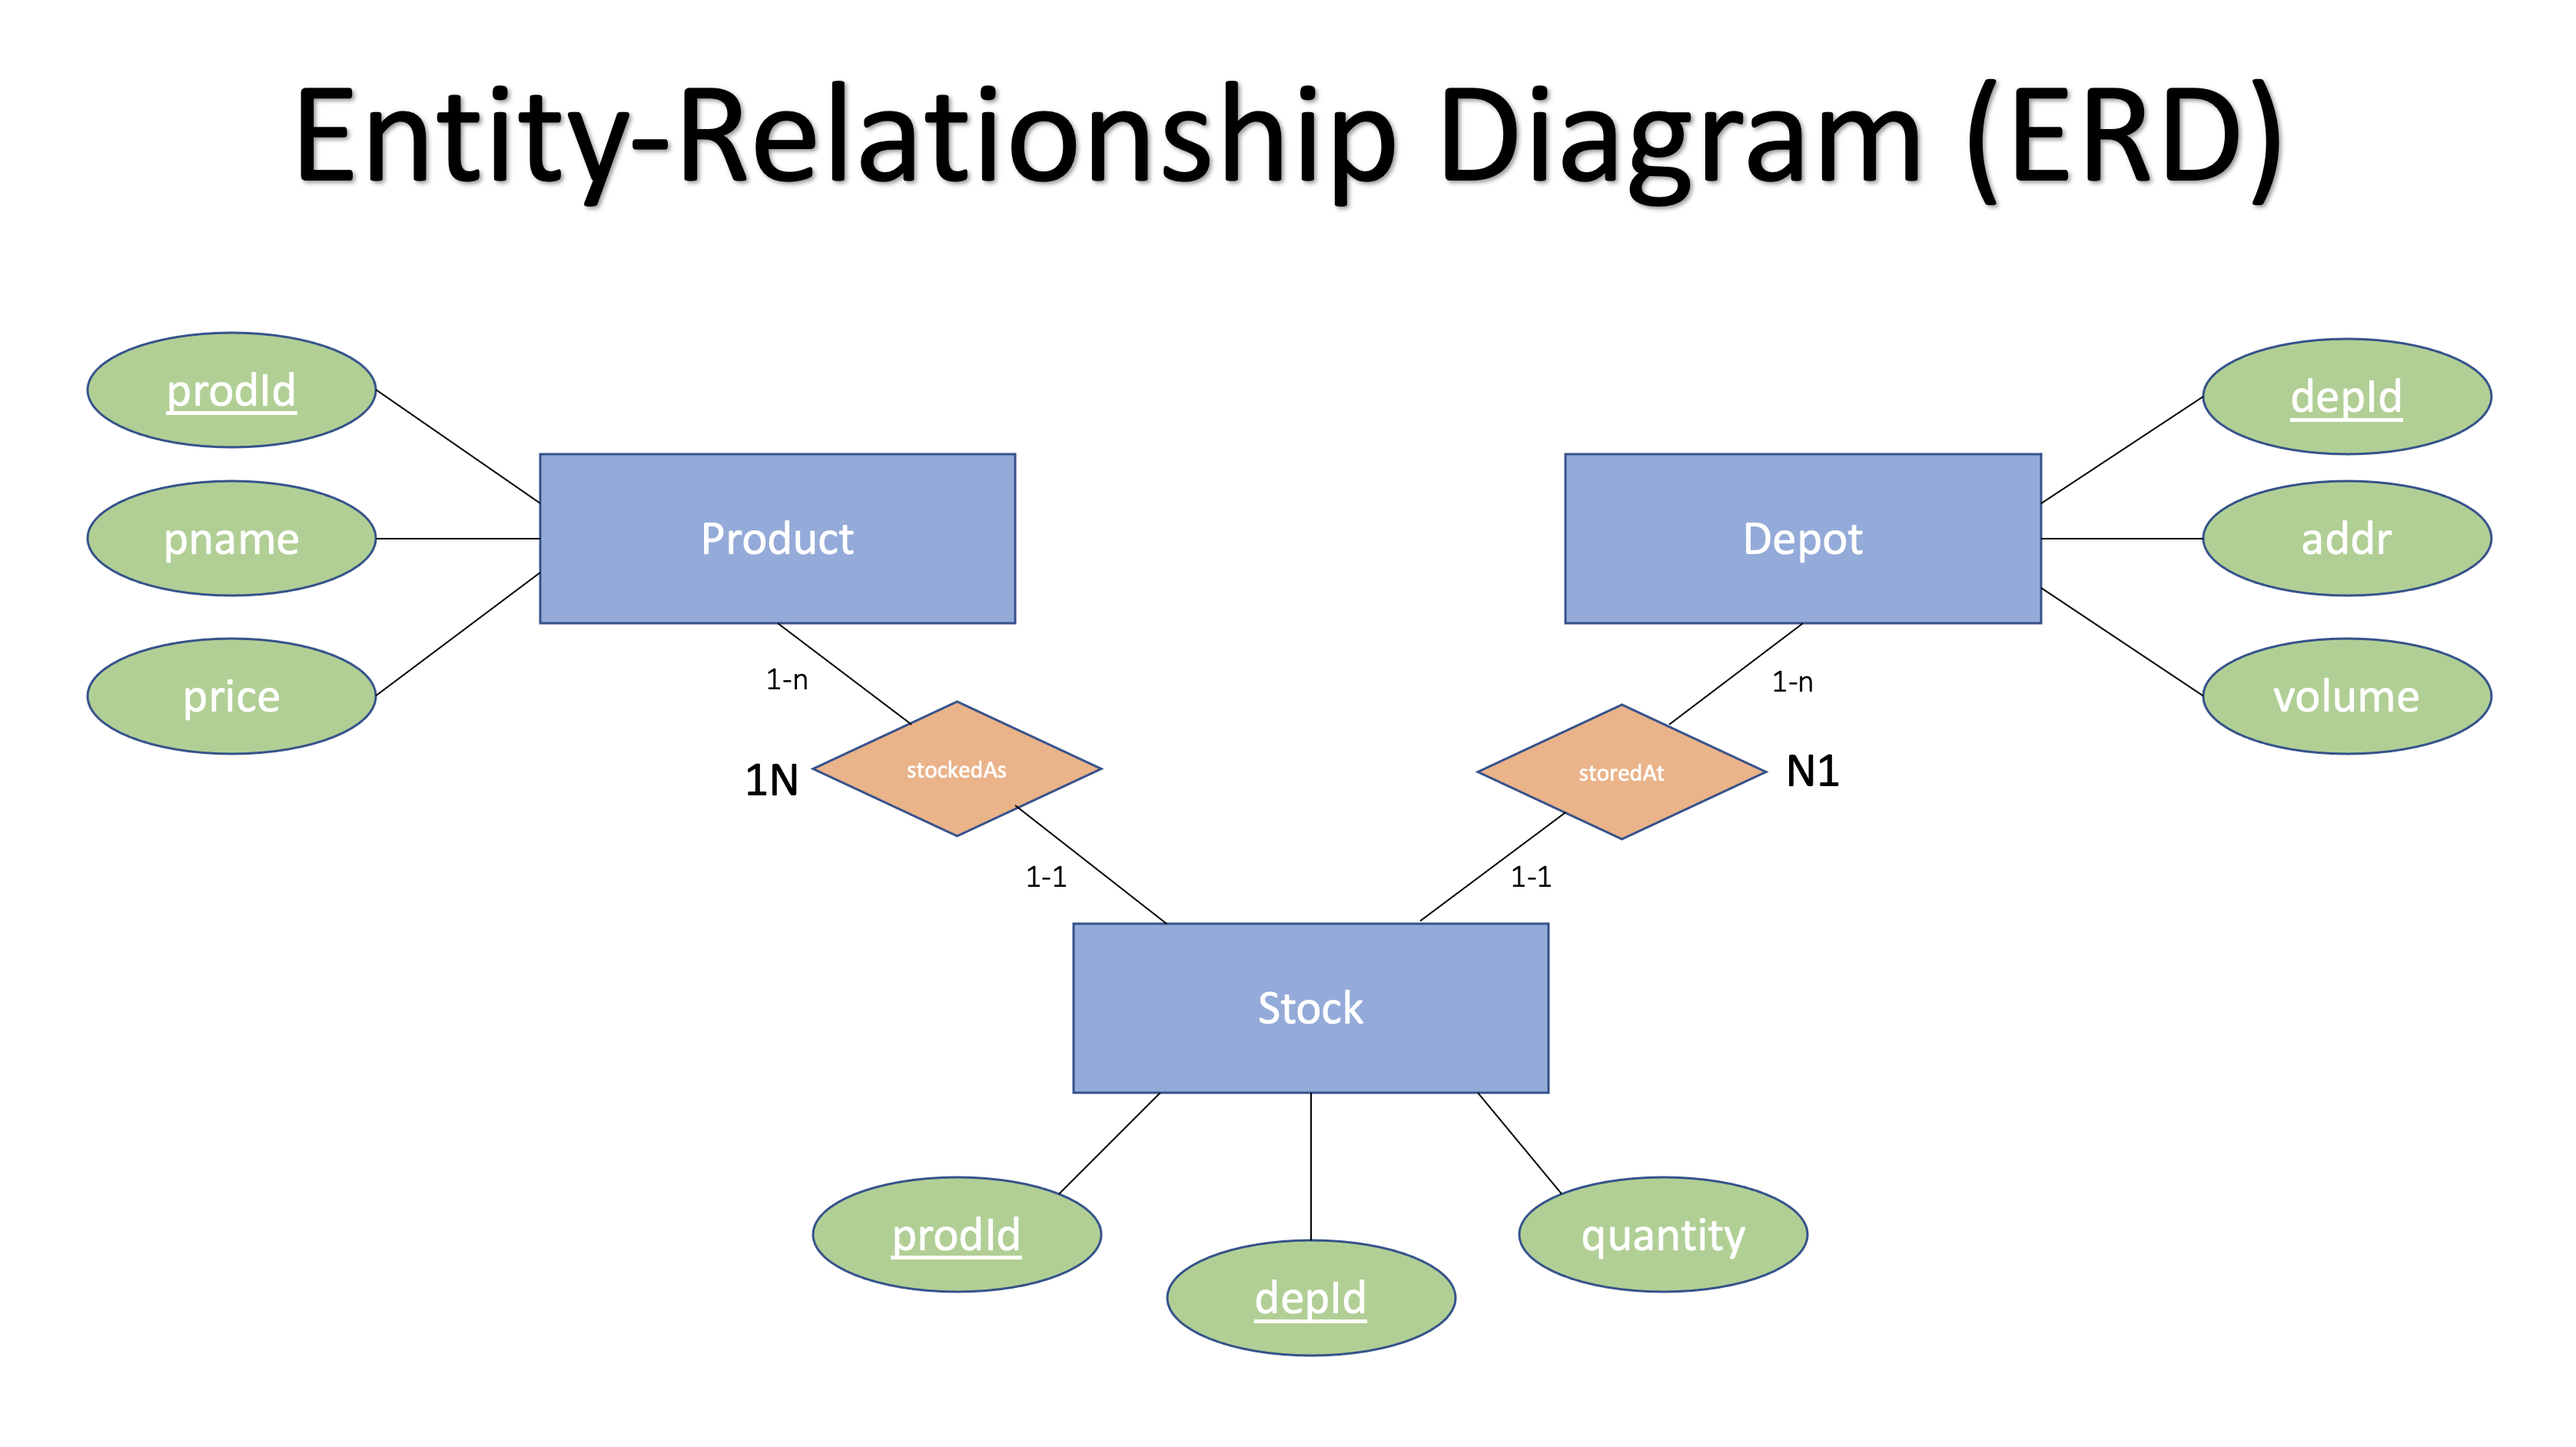
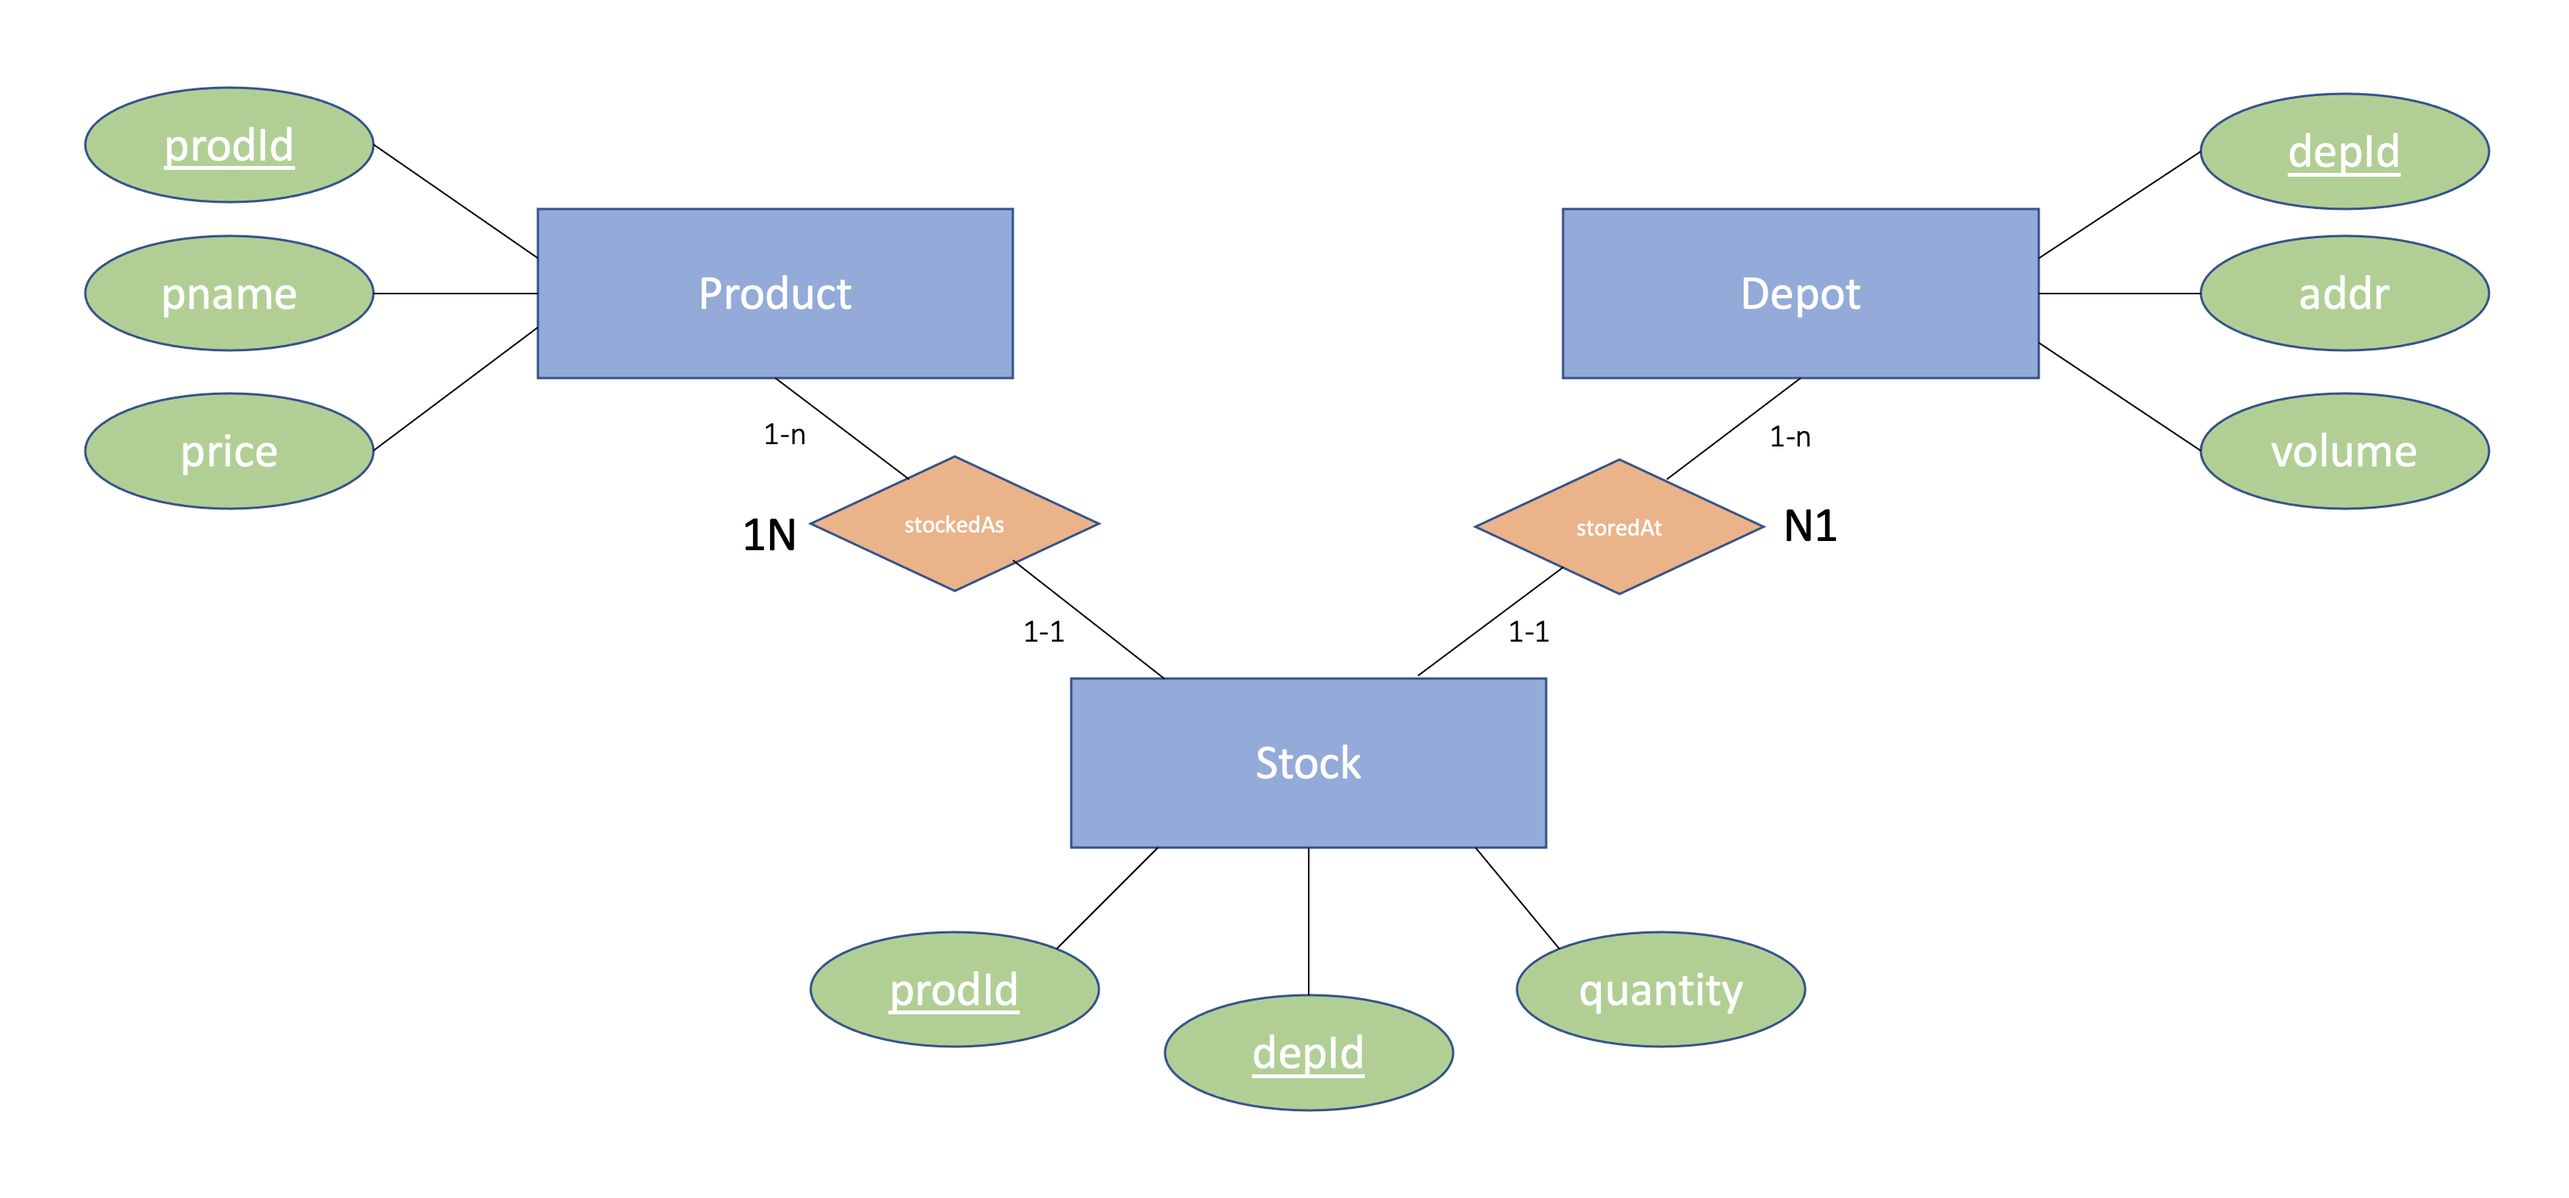
Updated ERD heading in readme, and ERD image

diff --git a/README.md b/README.md
@@ -10,7 +10,7 @@ Group # 4
 Language: Java
 <br/>
 
-## Entity-Relationship Diagram:
+## Entity-Relationship Diagram (ERD):
 ![alt text](https://github.com/saye2427/CS623-GroupProject/blob/main/Project_ERD.png?raw=true)
 <br/>
 
